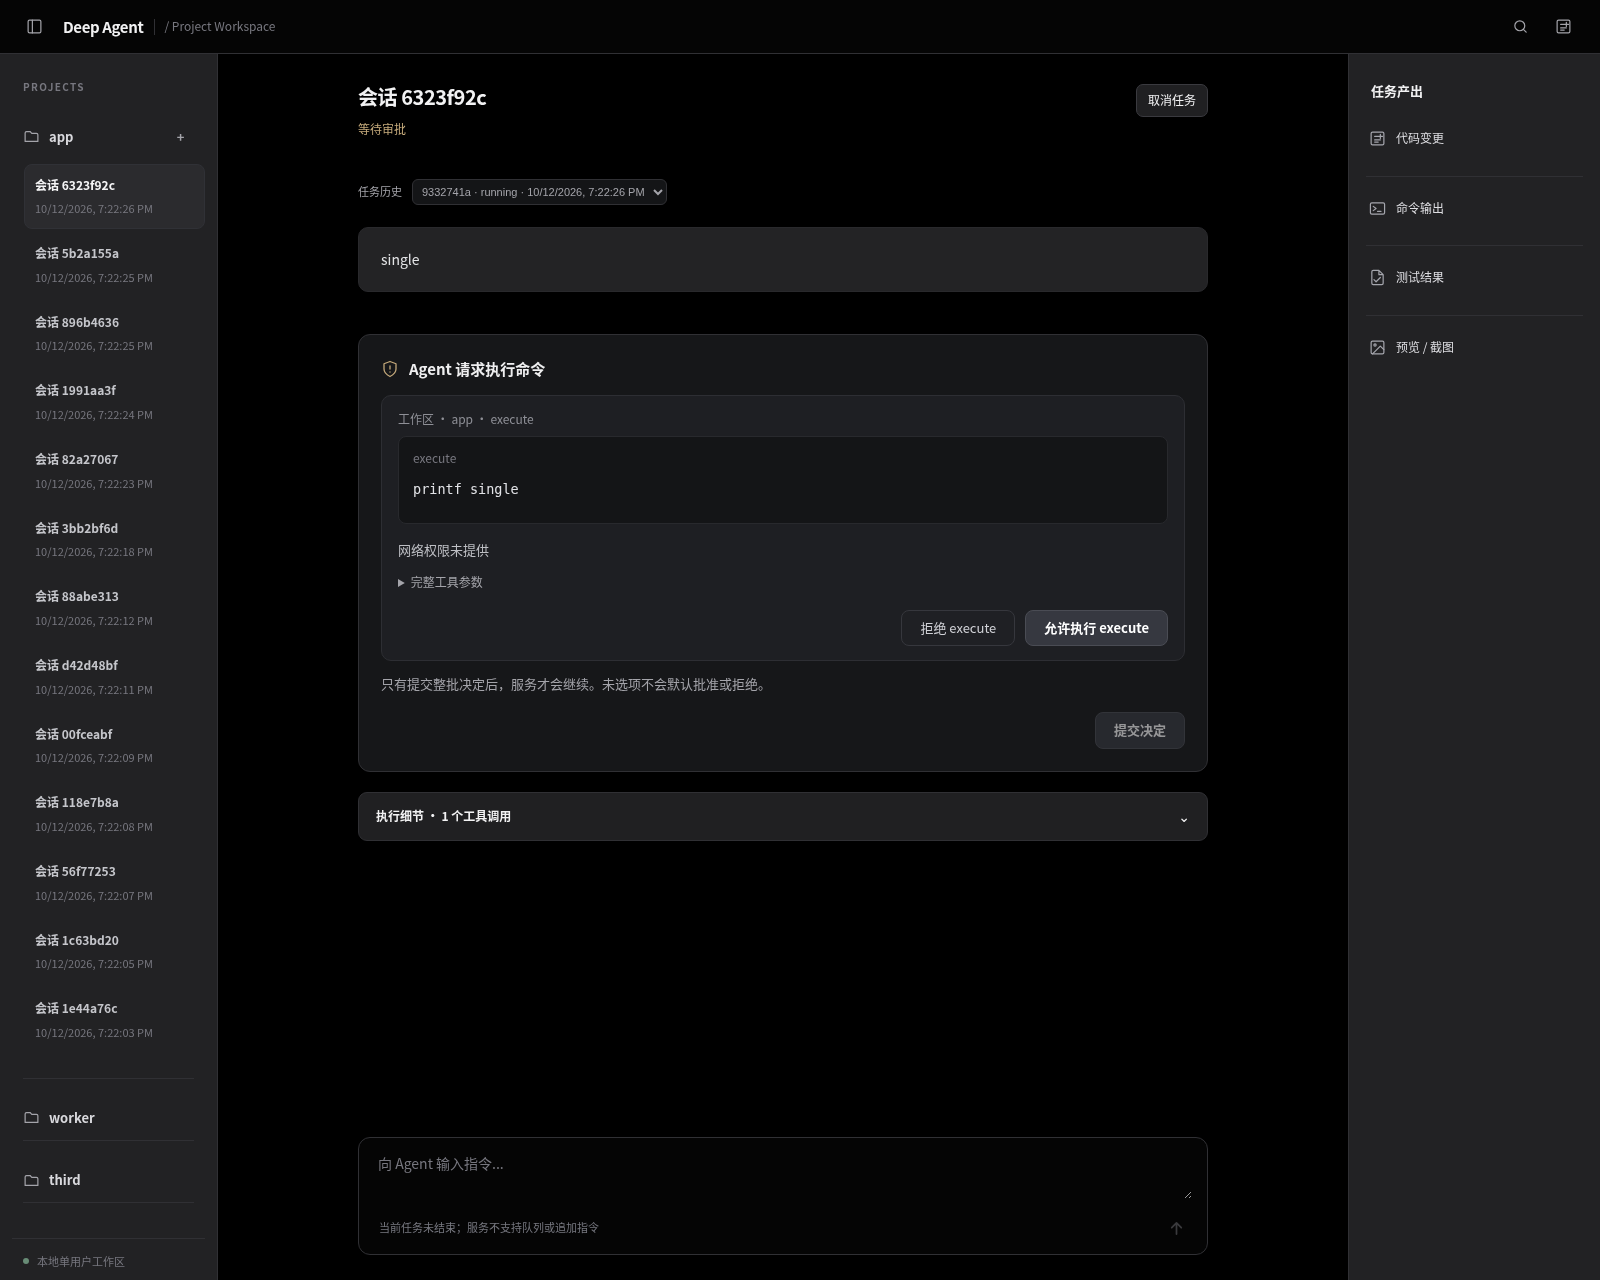
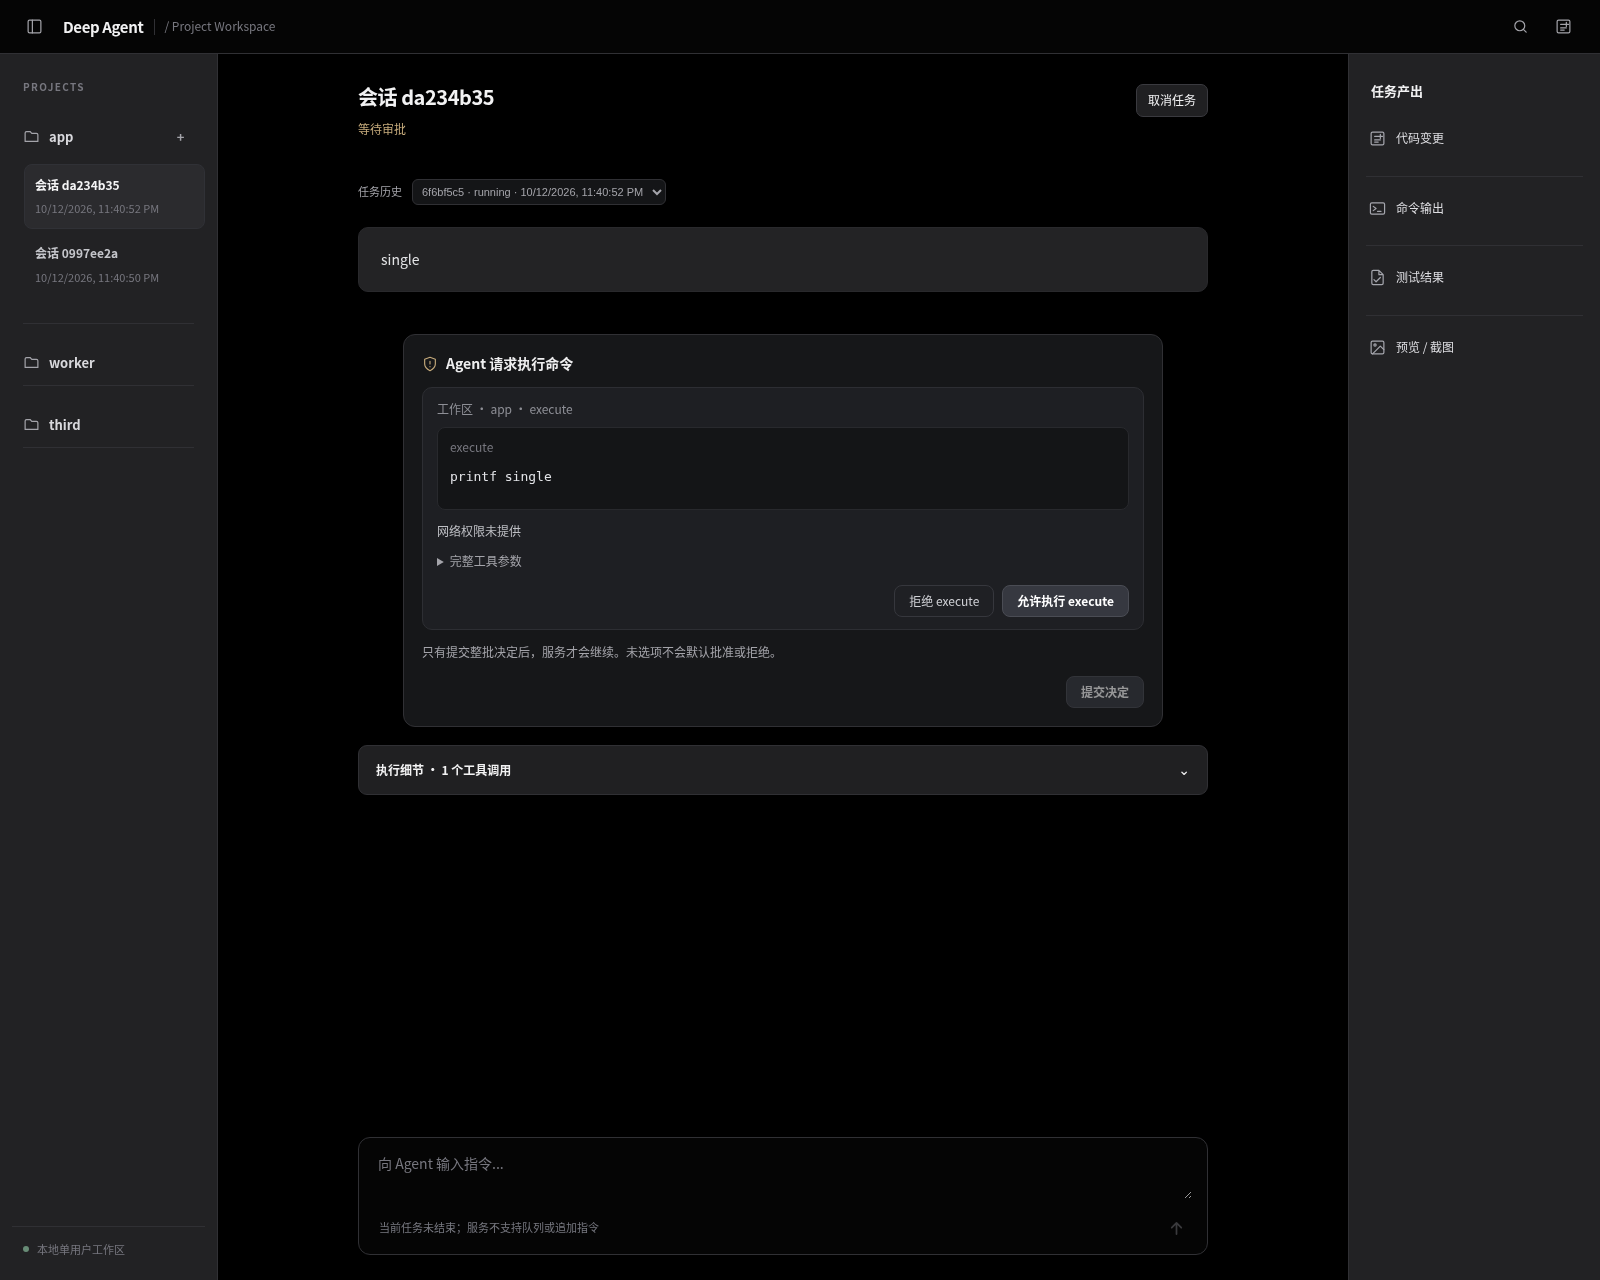
style(web): 补充信息标题增加图标并收紧交互框

diff --git a/web/src/components/HumanInputForm.vue b/web/src/components/HumanInputForm.vue
@@ -1,5 +1,6 @@
 <script setup lang="ts">
 import { ref, computed, watch } from 'vue';
+import Icon from './Icon.vue';
 import type { HumanInputRequest, HumanInputBody, HumanField } from '../api/types';
 import { dictionary } from '../state/dictionary';
 import { humanValues } from '../state/forms';
@@ -29,4 +30,4 @@ catch (e) {
     error.value = (e as Error).message;
 } }
 </script>
-<template><form class="approval-card human-form" aria-label="补充回答" @submit.prevent="submit"><h2>{{ request.title||'Agent 需要补充信息' }}</h2><p>{{ request.question }}</p><p v-if="request.reason" class="muted">{{ request.reason }}</p><fieldset :disabled="busy"><div v-for="field in request.fields" :key="field.id" class="human-field"><label :for="'human-'+field.id">{{ field.label }}{{ field.required?' *':'' }}</label><input v-if="field.type==='text'" :id="'human-'+field.id" :value="String(values[field.id]??'')" :placeholder="field.placeholder" type="text" @input="textInput(field,$event)"><textarea v-else-if="field.type==='textarea'" :id="'human-'+field.id" :value="String(values[field.id]??'')" :placeholder="field.placeholder" @input="textInput(field,$event)"></textarea><select v-else-if="field.type==='single_select'||field.type==='boolean'" :id="'human-'+field.id" :value="values[field.id]===undefined?'':String(values[field.id])" @change="choose(field,$event)"><option value="">请选择</option><template v-if="field.type==='boolean'"><option value="true">是</option><option value="false">否</option></template><template v-else><option v-for="option in field.options" :key="option.value" :value="option.value">{{ option.label }}</option></template></select><fieldset v-else-if="field.type==='multi_select'" :id="'human-'+field.id" :aria-label="field.label"><label v-for="option in field.options" :key="option.value" class="check-option"><input type="checkbox" :value="option.value" :checked="checked(field,option.value)" @change="toggle(field,option.value,$event)">{{ option.label }}</label></fieldset><p v-else class="error">暂不支持此字段类型，无法提交</p><label v-if="needsCustom(field)">其他回答<input v-model="custom[field.id]" type="text" :aria-label="field.label+'的其他回答'"></label></div></fieldset><p v-if="error" role="alert" class="error">{{ error }}</p><div class="approval-footer"><button class="decision approve" :disabled="busy||unsupported" type="submit">提交回答</button></div></form></template>
+<template><form class="approval-card human-form" aria-label="补充回答" @submit.prevent="submit"><h2><Icon name="alert" />{{ request.title||'Agent 需要补充信息' }}</h2><p>{{ request.question }}</p><p v-if="request.reason" class="muted">{{ request.reason }}</p><fieldset :disabled="busy"><div v-for="field in request.fields" :key="field.id" class="human-field"><label :for="'human-'+field.id">{{ field.label }}{{ field.required?' *':'' }}</label><input v-if="field.type==='text'" :id="'human-'+field.id" :value="String(values[field.id]??'')" :placeholder="field.placeholder" type="text" @input="textInput(field,$event)"><textarea v-else-if="field.type==='textarea'" :id="'human-'+field.id" :value="String(values[field.id]??'')" :placeholder="field.placeholder" @input="textInput(field,$event)"></textarea><select v-else-if="field.type==='single_select'||field.type==='boolean'" :id="'human-'+field.id" :value="values[field.id]===undefined?'':String(values[field.id])" @change="choose(field,$event)"><option value="">请选择</option><template v-if="field.type==='boolean'"><option value="true">是</option><option value="false">否</option></template><template v-else><option v-for="option in field.options" :key="option.value" :value="option.value">{{ option.label }}</option></template></select><fieldset v-else-if="field.type==='multi_select'" :id="'human-'+field.id" :aria-label="field.label"><label v-for="option in field.options" :key="option.value" class="check-option"><input type="checkbox" :value="option.value" :checked="checked(field,option.value)" @change="toggle(field,option.value,$event)">{{ option.label }}</label></fieldset><p v-else class="error">暂不支持此字段类型，无法提交</p><label v-if="needsCustom(field)">其他回答<input v-model="custom[field.id]" type="text" :aria-label="field.label+'的其他回答'"></label></div></fieldset><p v-if="error" role="alert" class="error">{{ error }}</p><div class="approval-footer"><button class="decision approve" :disabled="busy||unsupported" type="submit">提交回答</button></div></form></template>

diff --git a/web/src/assets/workspace.css b/web/src/assets/workspace.css
@@ -25,24 +25,24 @@ button:disabled{opacity:.55;cursor:not-allowed}
 @media(max-width:560px){.app{min-height:0}.thread-top,.thread-content{width:calc(100% - 40px)}.workspace.sidebar-open .sidebar{display:block;position:fixed;left:0;top:54px;bottom:0;width:260px;z-index:12}.workspace.sidebar-open .drawer-backdrop{display:block}.composer-hint{font-size:10px;max-width:80%}}
 .drawer-backdrop{position:fixed;inset:54px 0 0;border:0;background:#0008;z-index:11}
 @media(prefers-reduced-motion:reduce){*{animation:none!important;transition:none!important;scroll-behavior:auto!important}}
-.approval-card{background:#161719;border:1px solid #303034;border-radius:12px;padding:22px;margin-bottom:20px}
-.approval-card h2{display:flex;align-items:center;gap:10px;font-size:15px;font-weight:600;color:#efeff0;margin:0 0 14px}
-.approval-tool{background:#1e1f23;border:1px solid #2d2e33;border-radius:10px;padding:14px 16px;margin-top:14px}
+.approval-card{background:#161719;border:1px solid #303034;border-radius:12px;width:100%;max-width:760px;padding:18px;margin:0 auto 18px}
+.approval-card h2{display:flex;align-items:center;gap:8px;font-size:14px;font-weight:600;color:#efeff0;margin:0 0 12px}
+.approval-tool{background:#1e1f23;border:1px solid #2d2e33;border-radius:10px;padding:12px 14px;margin-top:12px}
 .approval-scope{font-size:12px;color:#8e8f96}
-.approval-command{background:#141517;border:1px solid #28292d;border-radius:8px;padding:12px 14px;margin-top:8px;font-size:12px}
-.approval-command pre{font-size:13.5px;line-height:1.4;color:#e2e3e7}
-.approval-network{font-size:13px;color:#bebfc4;margin-top:16px}
-.approval-card>.muted{font-size:13px;line-height:1.6}
+.approval-command{background:#141517;border:1px solid #28292d;border-radius:8px;padding:10px 12px;margin-top:8px;font-size:12px}
+.approval-command pre{font-size:13px;line-height:1.4;color:#e2e3e7}
+.approval-network{font-size:12px;color:#bebfc4;margin-top:12px}
+.approval-card>.muted{font-size:12px;line-height:1.6}
 .tool-args{font-size:12px;color:var(--muted);cursor:pointer}
-.approval-decisions,.approval-footer{display:flex;justify-content:flex-end;gap:10px;margin-top:18px;flex-wrap:wrap}
-.decision{background:#1f2024;border:1px solid #36373d;color:#d0d1d6;border-radius:8px;padding:7px 18px;font-size:13px;font-weight:500}
+.approval-decisions,.approval-footer{display:flex;justify-content:flex-end;gap:8px;margin-top:14px;flex-wrap:wrap}
+.decision{background:#1f2024;border:1px solid #36373d;color:#d0d1d6;border-radius:8px;padding:6px 14px;font-size:12px;font-weight:500}
 .decision.approve{background:#363840;border-color:#4a4c54;color:#fff;font-weight:580}
 .decision[aria-pressed=true]{outline:2px solid #96a5bb;outline-offset:2px}
 .human-form fieldset{border:0;padding:0;margin:0;min-width:0}
-.human-field{margin:18px 0;display:flex;flex-direction:column;gap:7px;font-size:13px}
-.human-field input:not([type=checkbox]),.human-field textarea,.human-field select{width:100%;background:#050505;color:var(--text);border:1px solid #303034;border-radius:7px;padding:9px}
-.human-field textarea{min-height:80px;resize:vertical}.check-option{display:flex;gap:8px;margin:6px 0}
+.human-field{margin:14px 0;display:flex;flex-direction:column;gap:6px;font-size:13px}
+.human-field input:not([type=checkbox]),.human-field textarea,.human-field select{width:100%;background:#050505;color:var(--text);border:1px solid #303034;border-radius:7px;padding:8px}
+.human-field textarea{min-height:64px;resize:vertical}.check-option{display:flex;gap:8px;margin:6px 0}
 .run-history{font-size:11px;color:var(--muted);margin:0 0 22px;display:flex;align-items:center;gap:10px;flex-wrap:wrap}.run-history select{margin-left:10px;max-width:100%;background:#141517;color:var(--muted);border:1px solid #303034;border-radius:6px;padding:5px;font-size:11px}.run-history label{max-width:100%}
 .thread-top{flex-wrap:wrap}.thread-top .run-actions{margin:0;flex-shrink:0;max-width:100%}
-.approval-card h2 .icon{color:#c5aa7b;width:18px;height:18px}
+.approval-card h2 .icon{color:#c5aa7b;width:16px;height:16px;flex-shrink:0}
 .log-pages{display:flex;align-items:center;gap:8px;flex-wrap:wrap;font-size:11px}.log-pages button{font-size:11px;padding:4px 8px}

diff --git a/docs/frontend-integration-test-report.md b/docs/frontend-integration-test-report.md
@@ -128,3 +128,7 @@ Web命令：`npm ci; npm run typecheck; npm run lint; npm run test; npm run buil
 | 精确视觉采集比例 | 原PNG与CSS几何不一致，如需逐像素匹配需原始缩放/DPR；已明确差异 |
 
 是否可供本地PR审阅：**是**，核心自动化和受控HTTP链路通过；外部LLM/原生环境与部署安全限制如上，不包装为全环境PASS。没有自动创建或发布PR。独立启动命令见 [web.md](web.md)。
+
+## UI 收尾：图标与紧凑交互框
+
+补充信息标题左侧复用alert图标；审批/补充信息卡统一限制760px宽度，内距22→18px，收紧工具框、表单间距、按钮与图标尺寸。TypeCheck/Lint/Build通过，前端35项通过；针对真实批量审批、Human-input及截图流程重新执行2项浏览器测试，2 passed（13.1s）。本次未改Python代码，未重复执行全量Python或其余12项浏览器测试。上方批量/单工具/补充信息/完成/失败PNG及哈希更新为本轮截图。
